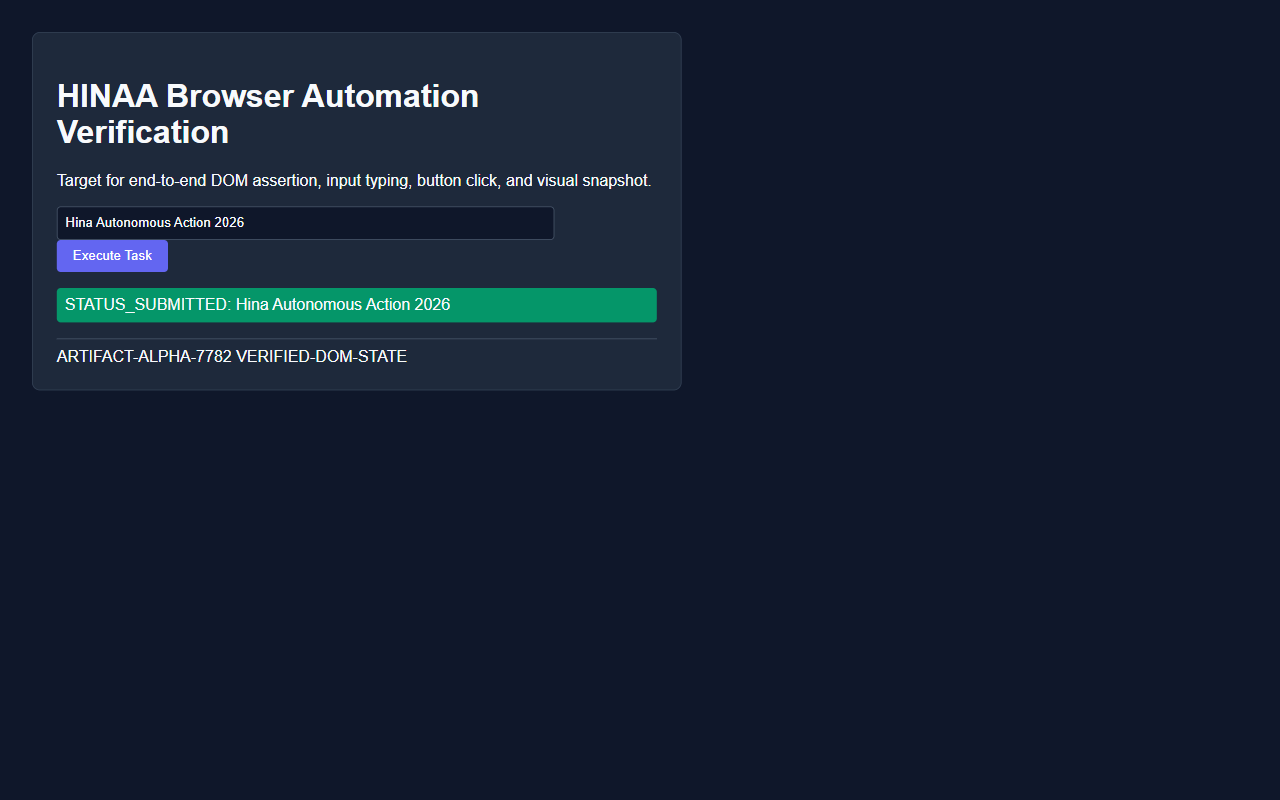
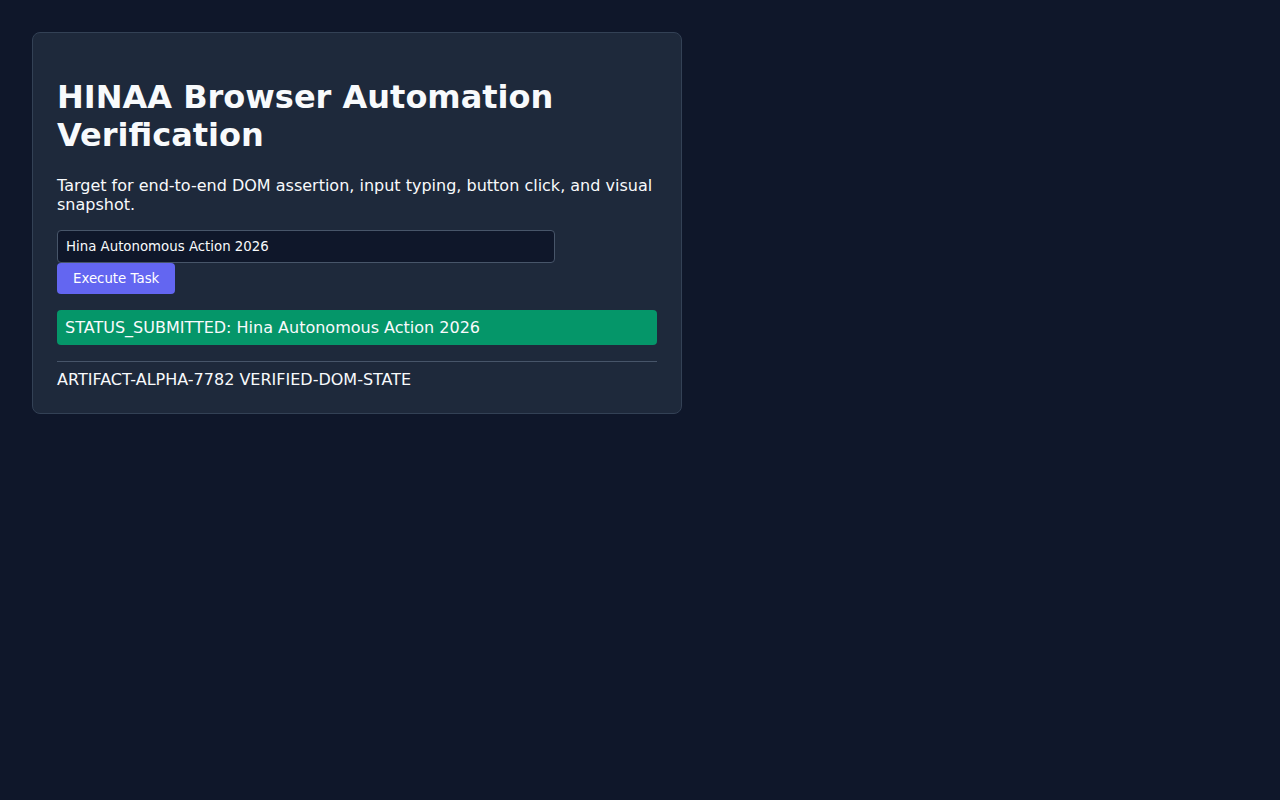
test(migrations): expect 17 applied migrations

Changed region(s): [[0.0312, 0.2188, 0.5312, 0.5], [0.0312, 0.0938, 0.4375, 0.1875]]

diff --git a/apps/api/tests/test_migrations.py b/apps/api/tests/test_migrations.py
@@ -26,7 +26,7 @@ def test_migrations_fresh_database():
     assert applied == ["0001", "0002", "0003", "0004", "0005", "0006", "0007", "0008", "0009", "0010", "0011", "0012", "0013", "0014", "0015", "0016", "0017"]
 
     status = get_migration_status(engine)
-    assert len(status["applied"]) == 16
+    assert len(status["applied"]) == 17
     assert len(status["pending"]) == 0
     assert status["current_version"] == "0017"
 
